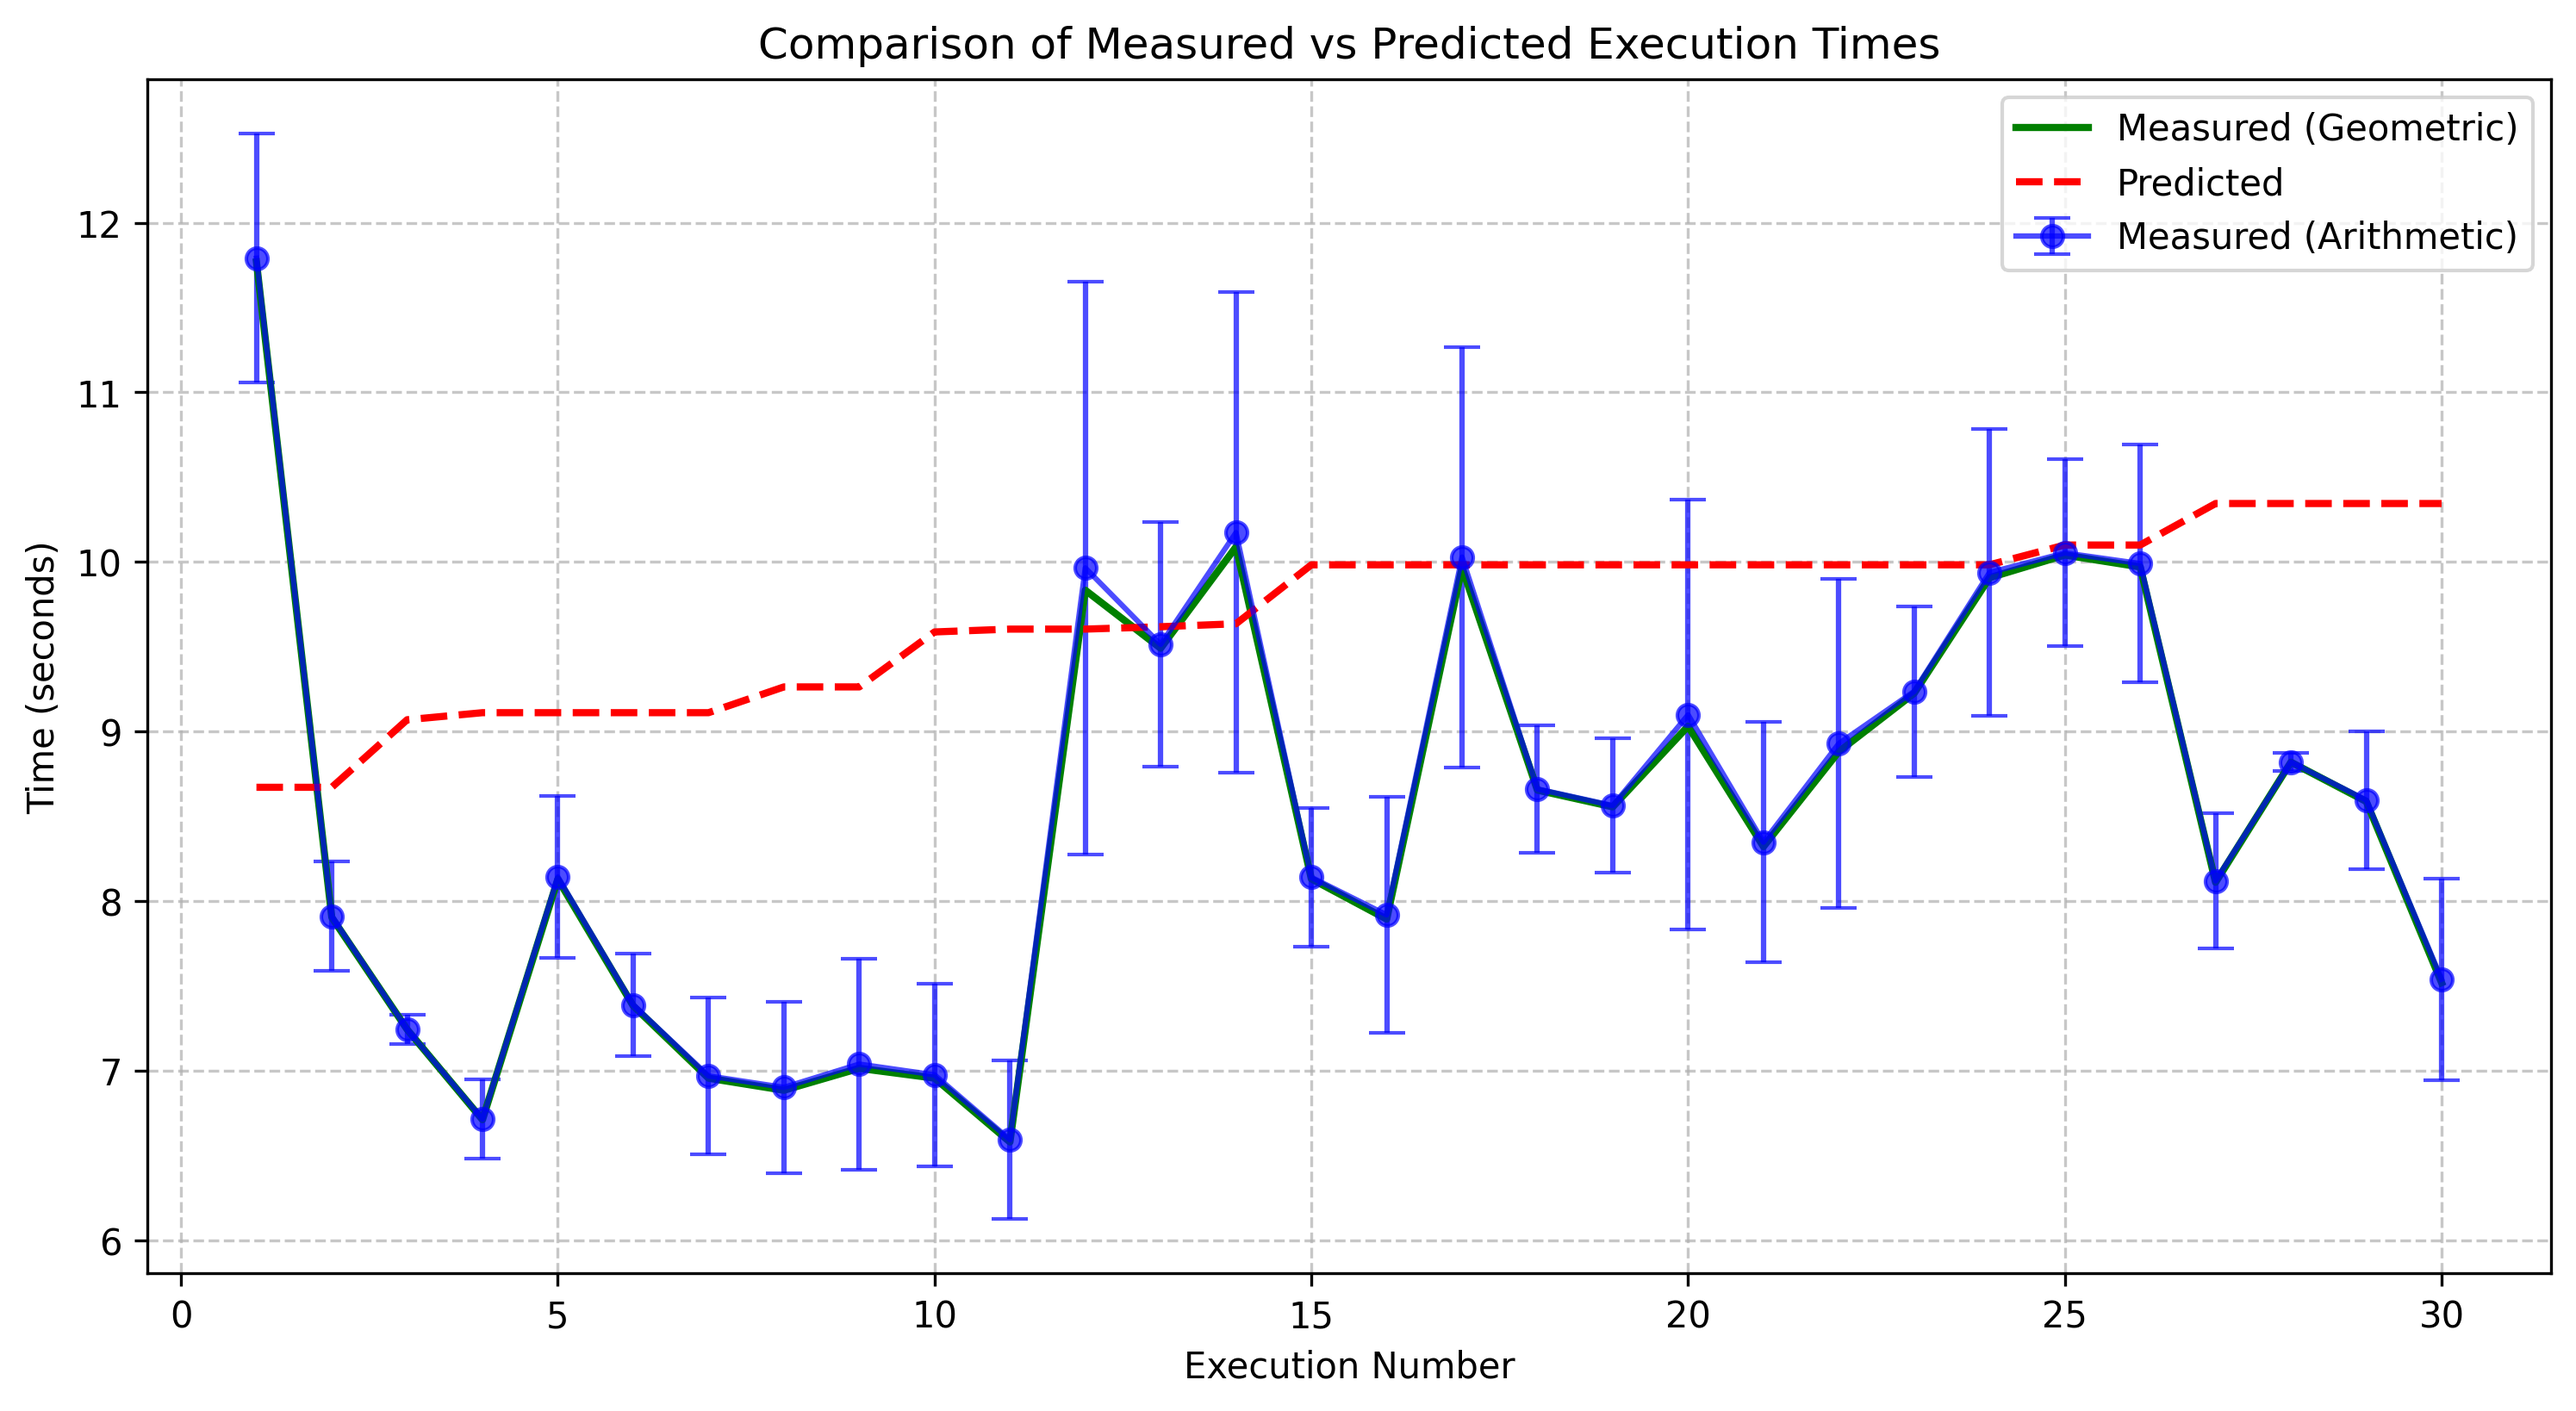
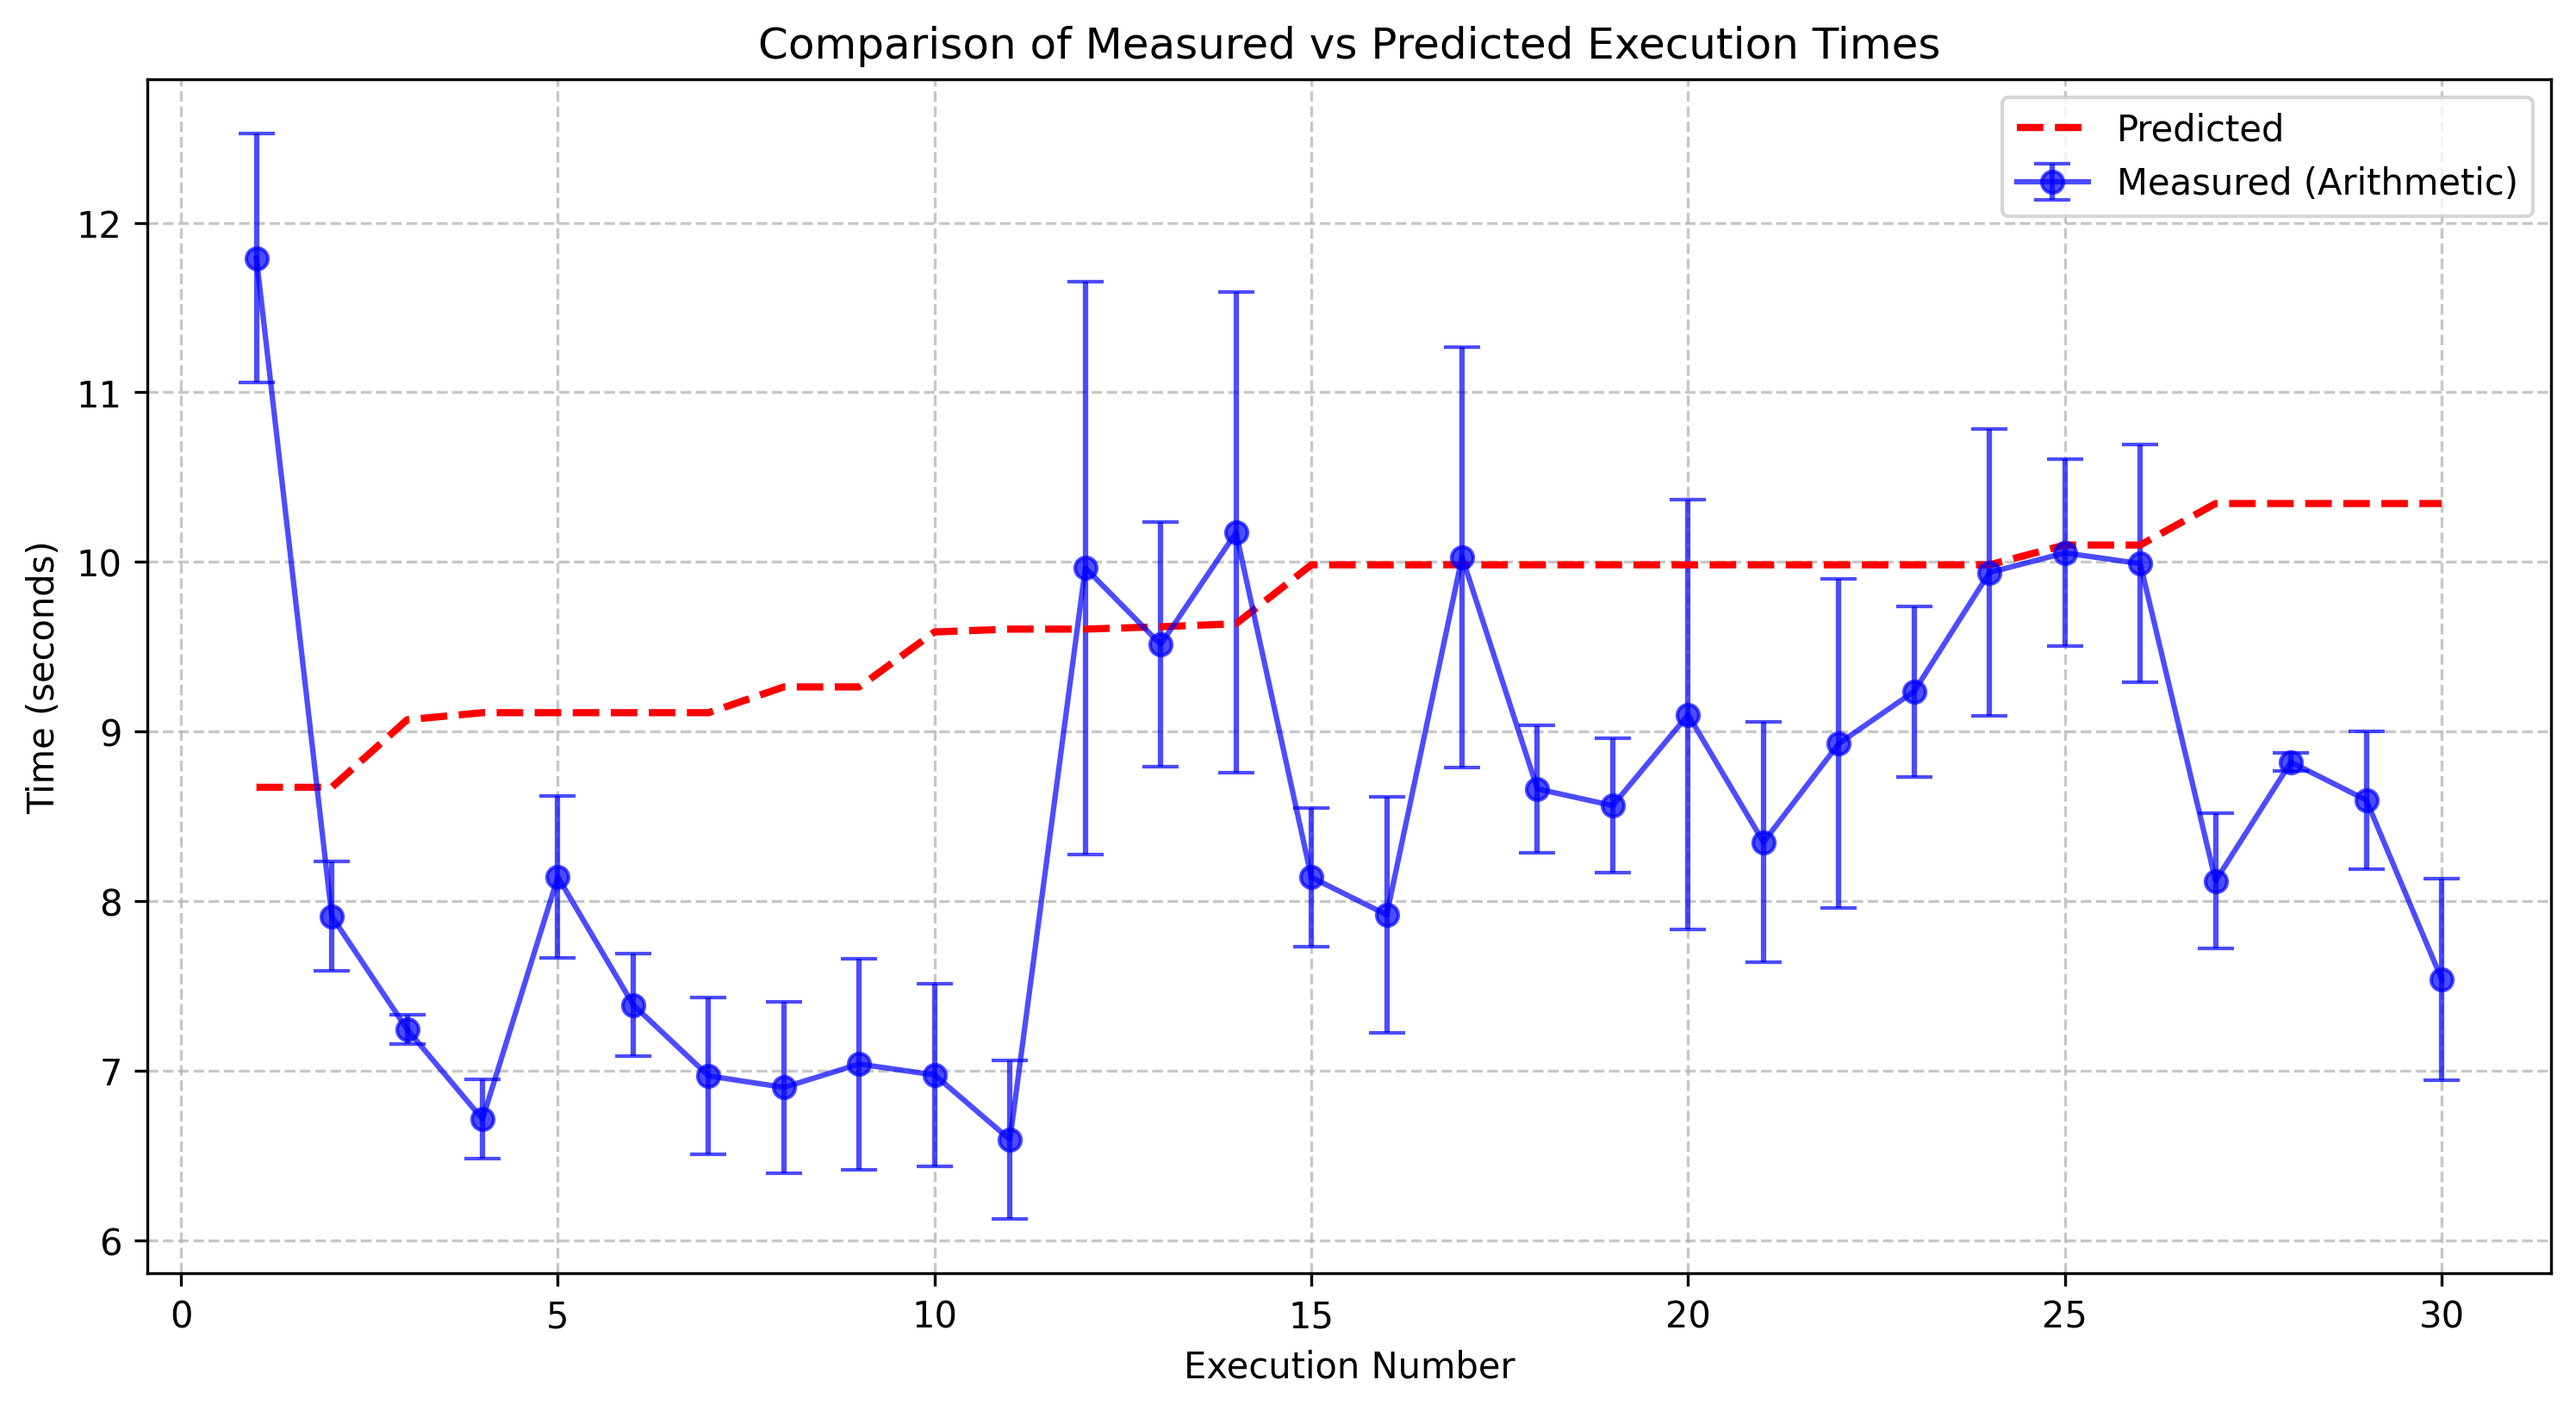
s

diff --git a/parse_times.py b/parse_times.py
@@ -39,10 +39,6 @@ PREDICTED_TIMES = [
 ]
 
 
-def geometric_mean(data):
-    return np.exp(np.mean(np.log(data)))
-
-
 def parse_accumulated_times(file_path):
     with open(file_path, "r") as file:
         content = file.read()
@@ -71,9 +67,7 @@ def parse_accumulated_times(file_path):
     return all_runs_data
 
 
-def create_visualization(
-    avg_executions, geo_executions, std_executions, predicted_times
-):
+def create_visualization(avg_executions, std_executions, predicted_times):
     plt.figure(figsize=(12, 6))
 
     # Create x-axis values
@@ -90,9 +84,6 @@ def create_visualization(
         color="blue",
         alpha=0.7,
     )
-
-    # Plot geometric mean
-    plt.plot(x, geo_executions, "g-", label="Measured (Geometric)", linewidth=2)
 
     # Plot predicted values
     plt.plot(x, predicted_times, "r--", label="Predicted", linewidth=2)
@@ -127,7 +118,6 @@ def main():
 
     # Calculate statistics across all runs for each execution
     avg_executions = df.mean(axis=0)
-    geo_executions = df.apply(geometric_mean, axis=0)
     std_executions = df.std(axis=0)
 
     # Calculate percentage error (coefficient of variation)
@@ -136,31 +126,23 @@ def main():
     # Use predicted times as is (already in seconds)
     predicted_times = PREDICTED_TIMES
 
-    # Calculate difference between measured and predicted (both arithmetic and geometric)
+    # Calculate difference between measured and predicted
     diff_times_arith = avg_executions - predicted_times
-    diff_times_geo = geo_executions - predicted_times
     diff_percent_arith = (diff_times_arith / predicted_times) * 100
-    diff_percent_geo = (diff_times_geo / predicted_times) * 100
 
     # Calculate correlation between measured and predicted
     correlation_arith, p_value_arith = stats.pearsonr(avg_executions, predicted_times)
-    correlation_geo, p_value_geo = stats.pearsonr(geo_executions, predicted_times)
 
     # Create visualization
-    create_visualization(
-        avg_executions, geo_executions, std_executions, predicted_times
-    )
+    create_visualization(avg_executions, std_executions, predicted_times)
 
     # Create a DataFrame for the statistics
     stats_df = pd.DataFrame(
         {
             "Measured Avg (s)": avg_executions,
-            "Measured Geo (s)": geo_executions,
             "Predicted (s)": predicted_times,
             "Diff Arith (s)": diff_times_arith,
-            "Diff Geo (s)": diff_times_geo,
             "Diff Arith %": diff_percent_arith,
-            "Diff Geo %": diff_percent_geo,
             "Error %": percent_error,
         }
     )
@@ -175,35 +157,28 @@ def main():
     print(
         f"Arithmetic mean correlation: {correlation_arith:.4f} (p-value: {p_value_arith:.4f})"
     )
-    print(
-        f"Geometric mean correlation: {correlation_geo:.4f} (p-value: {p_value_geo:.4f})"
-    )
     print("\nIndividual runs data has been saved to 'execution_times.csv'")
     print("Execution statistics have been saved to 'execution_statistics.csv'")
     print("Visualization has been saved to 'execution_times_comparison.png'")
 
     # Print the statistics in a formatted table
     print("\nExecution Statistics (Measured vs Predicted):")
-    print("=" * 120)
+    print("=" * 100)
     print(
-        f"{'Execution':<12} {'Arith (s)':<12} {'Geo (s)':<12} {'Predicted (s)':<12} {'Diff Arith %':<12} {'Diff Geo %':<12} {'Error %':<12}"
+        f"{'Execution':<12} {'Arith (s)':<12} {'Predicted (s)':<12} {'Diff Arith %':<12} {'Error %':<12}"
     )
-    print("-" * 120)
+    print("-" * 100)
 
-    for i, (avg, geo, pred, diff_arith_pct, diff_geo_pct, err_pct) in enumerate(
+    for i, (avg, pred, diff_arith_pct, err_pct) in enumerate(
         zip(
             avg_executions,
-            geo_executions,
             predicted_times,
             diff_percent_arith,
-            diff_percent_geo,
             percent_error,
         ),
         1,
     ):
-        print(
-            f"{i:<12} {avg:.4f} {geo:.4f} {pred:.4f} {diff_arith_pct:+.1f}% {diff_geo_pct:+.1f}% {err_pct:.1f}%"
-        )
+        print(f"{i:<12} {avg:.4f} {pred:.4f} {diff_arith_pct:+.1f}% {err_pct:.1f}%")
 
 
 if __name__ == "__main__":
